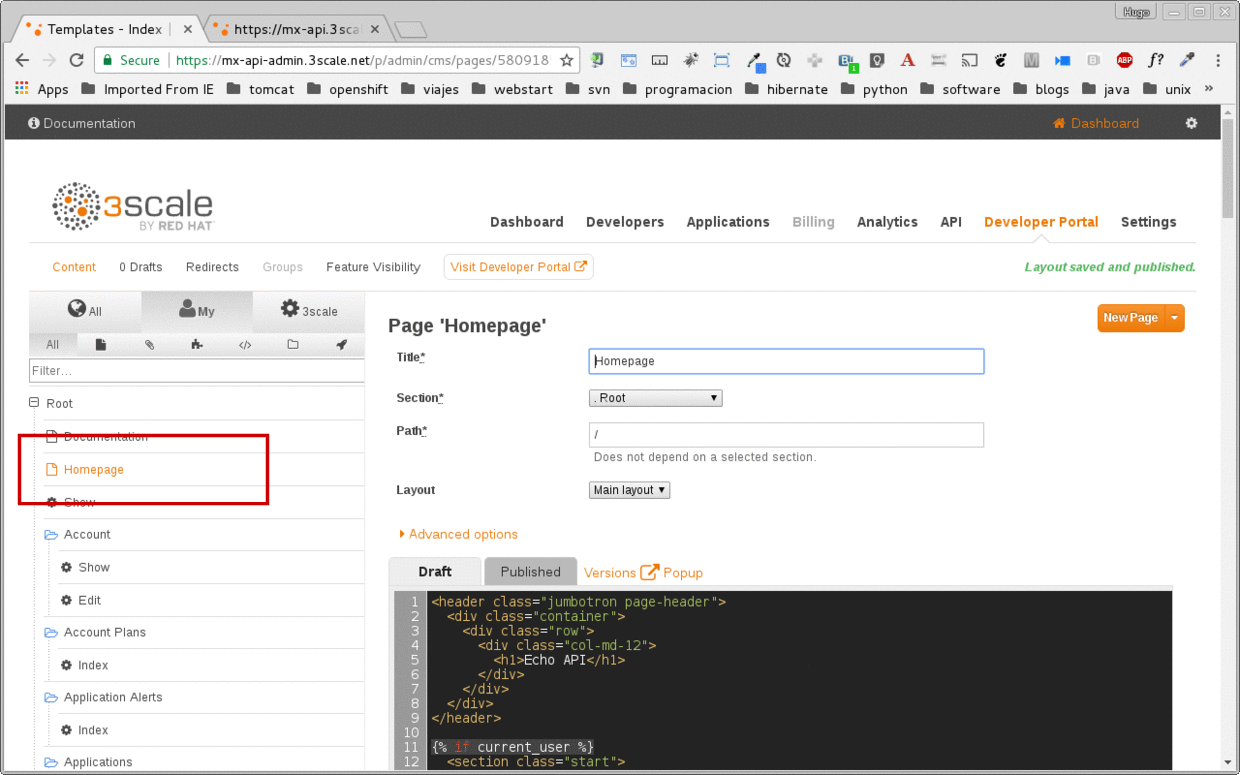
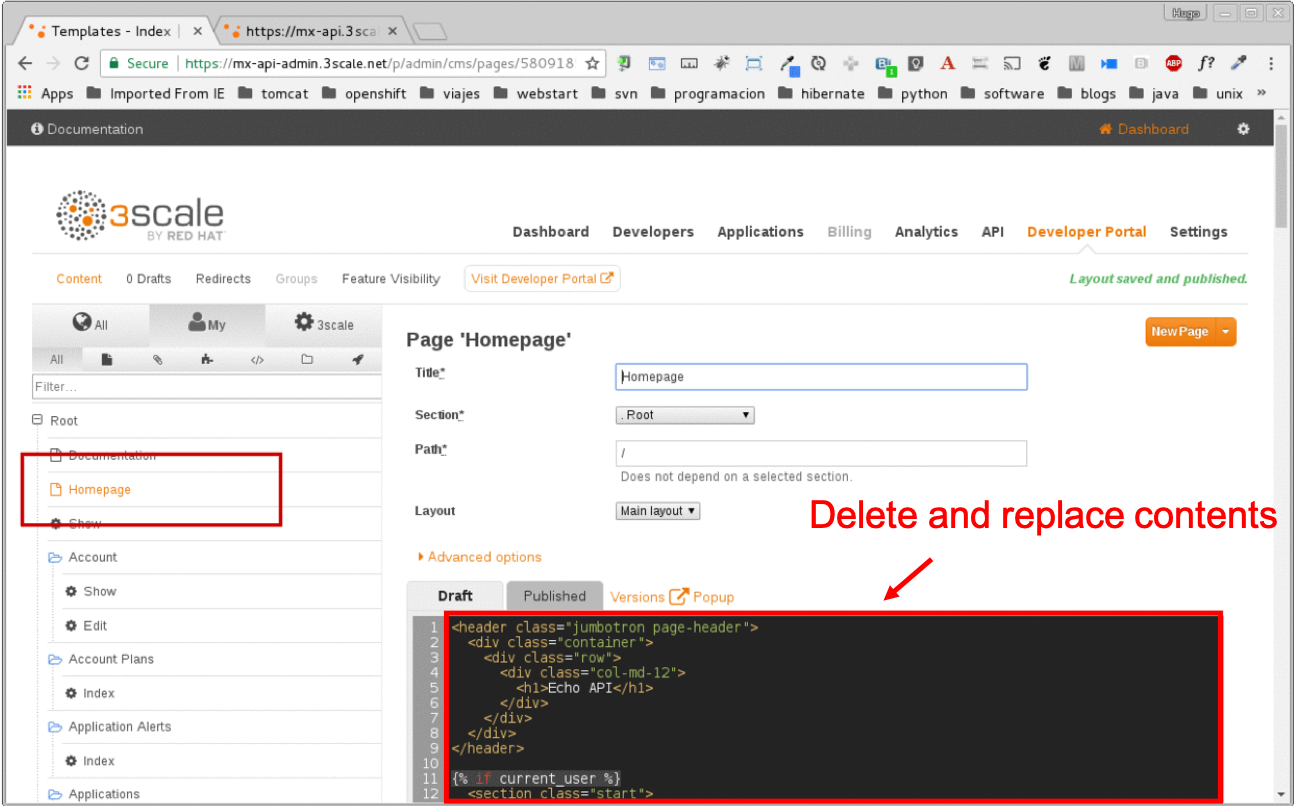
replaced image 15 and fixed instructions

diff --git a/docs/labs/developer-track/lab07/README.md b/docs/labs/developer-track/lab07/README.md
@@ -72,7 +72,7 @@ Once the environment is provisioned, you will be presented with a page that pres
     ![10-developer-portal.png](images/10-developer-portal.png)
 
 
-1. On the right menu select **Home Page**, and replace the entire content with what's in the example link [example](https://raw.githubusercontent.com/RedHatWorkshops/dayinthelife-integration/master/docs/labs/developer-track/lab07/support/homepage.example)
+1. On the left menu select **Home Page**, and replace the entire content with what's in the example link: [example](https://raw.githubusercontent.com/RedHatWorkshops/dayinthelife-integration/master/docs/labs/developer-track/lab07/support/homepage.example)
 
 	![15-homepage-devportal.png](images/15-homepage-devportal.png)
 
